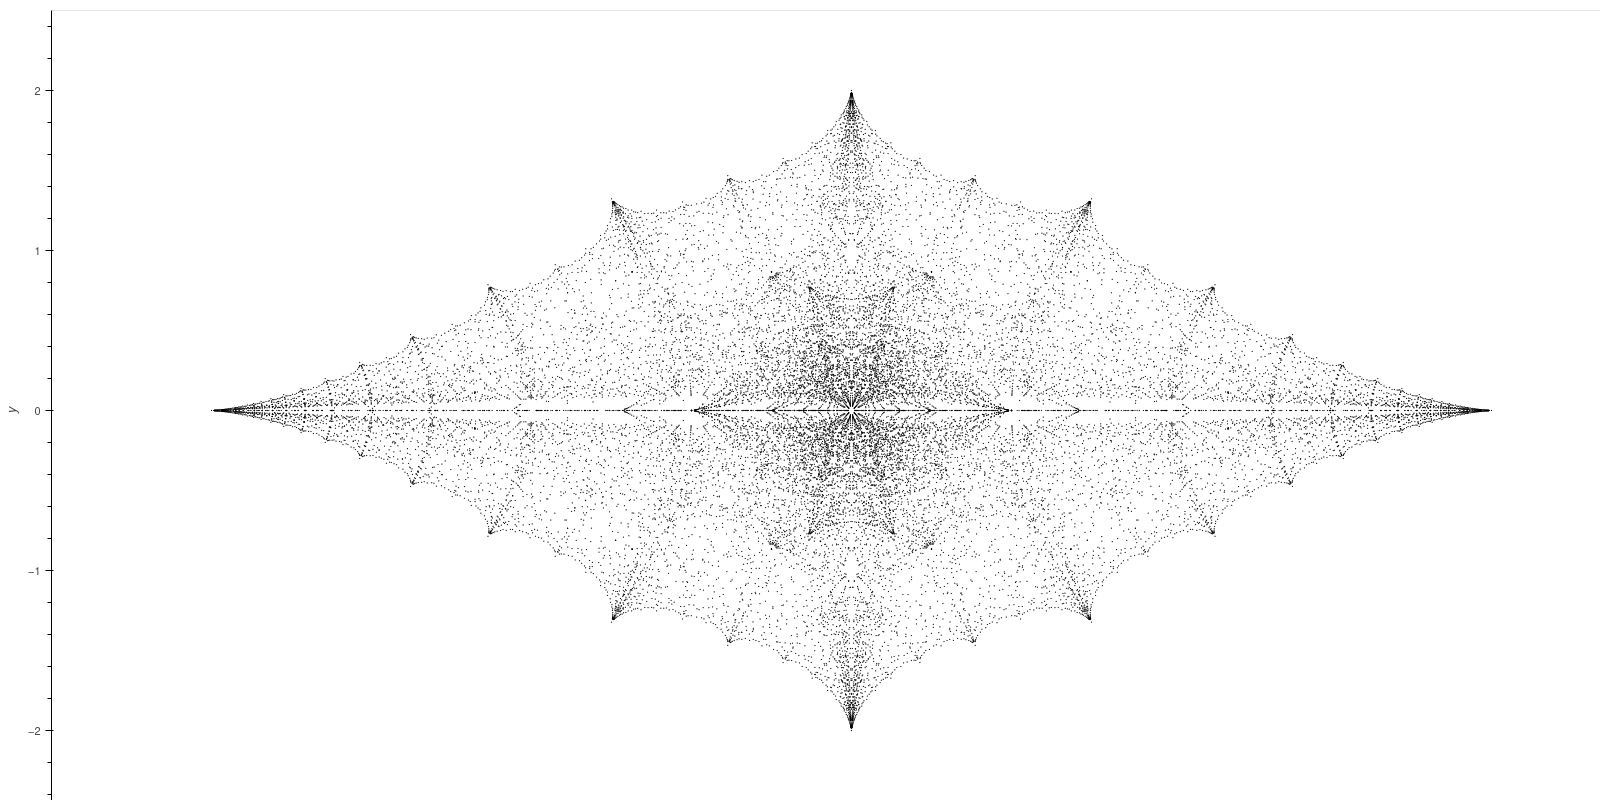
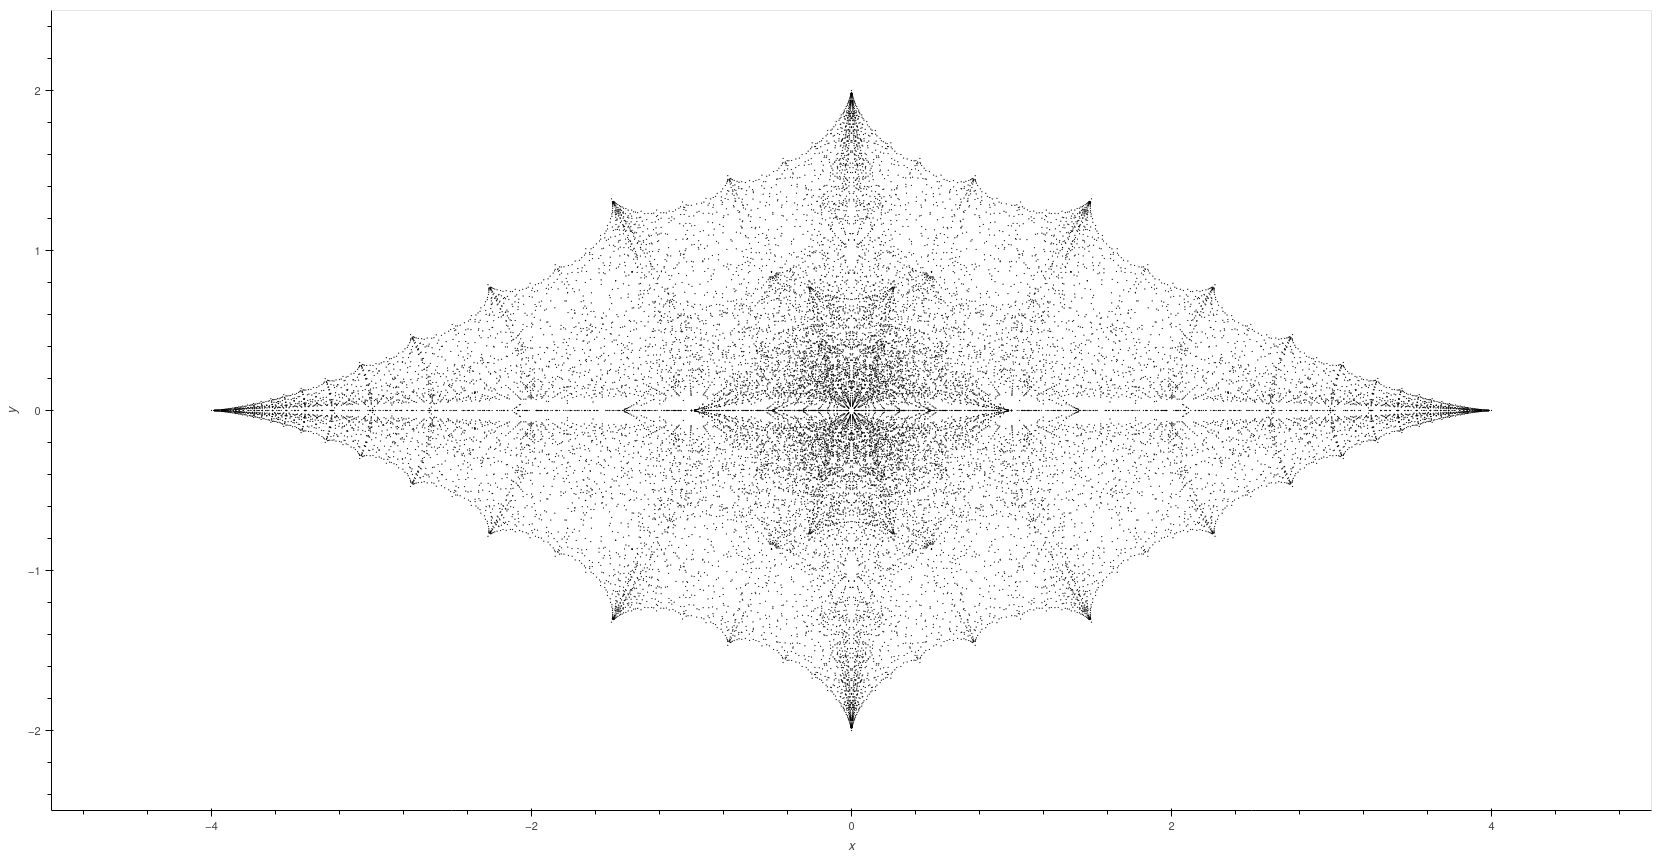
Fix examples to use frame_width not width and same for height

Changed region(s): [[0.125, 0.125, 0.9375, 0.9062]]

diff --git a/examples/padic.py b/examples/padic.py
@@ -14,7 +14,7 @@ from fractions import Fraction as Q
 
 def padic_limit_set(G, filename, prime, depth = 15, logwords=4):
     df = G.coloured_limit_set_mc(depth, 10**logwords, 0, lambda z: chistyakov.Υ(0, 0.5*chistyakov.s0(prime), z, 100))
-    scatter = hv.Scatter(df, kdims = ['x'], vdims = ['y','colour']).opts(marker = "dot", size = .1, width=1000, height=1000, data_aspect=1, color='colour', cmap='Set1')\
+    scatter = hv.Scatter(df, kdims = ['x'], vdims = ['y','colour']).opts(marker = "dot", size = .1, frame_width=1000, frame_height=1000, data_aspect=1, color='colour', cmap='Set1')\
         .redim(x=hv.Dimension('x', range=(-2,2)),y=hv.Dimension('y', range=(-2, 2)))
     hv.save(scatter, filename)
 

diff --git a/examples/elementary.py b/examples/elementary.py
@@ -26,7 +26,7 @@ G = IncompleteGroup(1, 1+1j) #<- if you modify this so that the parallelogram ha
 seed = 0
 df = G.coloured_limit_set_fast(num_points, seed=seed)
 scatter = hv.Scatter(df, kdims = ['x'], vdims = ['y','colour'])\
-            .opts(marker = "dot", size = 4,  color = 'colour', width=800, height=800, data_aspect=1, cmap='Set1')\
+            .opts(marker = "dot", size = 4,  color = 'colour', frame_width=800, frame_height=800, data_aspect=1, cmap='Set1')\
               .redim(x=hv.Dimension('x', range=(-8,8)),y=hv.Dimension('y', range=(-8, 8)))
 
 #isometric circles of generators make no sense here since everything has a fixed point at infinity. We plot the four sizes of the fundamental

diff --git a/examples/parabolic_slice_hidef.py b/examples/parabolic_slice_hidef.py
@@ -8,5 +8,5 @@ hv.extension('bokeh')
 # Just compute the parabolic slice and save it to an image file.
 depth = 50
 df = slices.parabolic_exterior_from_farey(depth)
-roots = hv.Scatter(df, kdims=['x'],vdims=['y']).opts(marker = "dot", size = 4, width=1600, height=800, data_aspect=1, color='black').redim(x=hv.Dimension('x', range=(-5,5)),y=hv.Dimension('y', range=(-2.5, 2.5)))
+roots = hv.Scatter(df, kdims=['x'],vdims=['y']).opts(marker = "dot", size = 4, frame_width=1600, frame_height=800, data_aspect=1, color='black').redim(x=hv.Dimension('x', range=(-5,5)),y=hv.Dimension('y', range=(-2.5, 2.5)))
 hv.save(roots, 'parabolic_slice.png', fmt='png')

diff --git a/examples/apollonian_gasket.py b/examples/apollonian_gasket.py
@@ -12,6 +12,6 @@ G = riley.RileyGroup(0, 0, 2j)
 seed = G.fixed_points((0,1))[0]
 df = G.coloured_limit_set_fast(depth*10**logpoints, seed=seed)
 scatter = hv.Scatter(df, kdims = ['x'], vdims = ['y','colour'])\
-            .opts(marker = "dot", size = 0.1,  color = 'colour', width=1600, height=1600, data_aspect=1, cmap='Set1')\
+            .opts(marker = "dot", size = 0.1,  color = 'colour', frame_width=1600, frame_height=1600, data_aspect=1, cmap='Set1')\
               .redim(x=hv.Dimension('x', range=(-4,4)),y=hv.Dimension('y', range=(-4, 4)))
 hv.save(scatter, 'apollonian_gasket.png', fmt='png')

diff --git a/examples/apanasov.py b/examples/apanasov.py
@@ -34,7 +34,7 @@ G = ApanasovGroup()
 seed = G.fixed_points((0,1))[0]
 df = G.coloured_limit_set_fast(num_points, seed=seed)
 scatter = hv.Scatter(df, kdims = ['x'], vdims = ['y','colour'])\
-            .opts(marker = "dot", size = 1,  color = 'colour', width=1000, height=1000, data_aspect=1, cmap='Set1')
+            .opts(marker = "dot", size = 1,  color = 'colour', frame_width=1000, frame_height=1000, data_aspect=1, cmap='Set1')
 
 # Plot the isometric circles of X^\pm 1, Y^\pm1 and X^\pm2, Y^\pm2. These outline the Ford domain of the group
 # so you can see it has four components.

diff --git a/examples/web.py b/examples/web.py
@@ -45,7 +45,7 @@ G = WebGroup()
 seed = G.fixed_points((0,1))[0]
 df = G.coloured_limit_set_fast(num_points, seed=seed)
 scatter = hv.Scatter(df, kdims = ['x'], vdims = ['y','colour'])\
-            .opts(marker = "dot", size = 0.1,  color = 'colour', width=2000, height=2000, data_aspect=1, cmap='Set1')
+            .opts(marker = "dot", size = 0.1,  color = 'colour', frame_width=2000, frame_height=2000, data_aspect=1, cmap='Set1')
 
 # the four circles C_1,...,C_4
 fourdiscs = [hv.Ellipse(centre.real, centre.imag, float(mp.sqrt(2))).opts(color='gray') for centre in [1, 1j, -1, -1j]]

diff --git a/examples/connected_component_bound.py b/examples/connected_component_bound.py
@@ -23,6 +23,6 @@ G = BoundGroup(8)
 seed = G.fixed_points((0,1))[0]
 df = G.coloured_limit_set_fast(num_points, seed=seed)
 scatter = hv.Scatter(df, kdims = ['x'], vdims = ['y','colour'])\
-            .opts(marker = "dot", size = 1,  color = 'colour', width=400, height=1500, data_aspect=1, cmap='Set1')\
+            .opts(marker = "dot", size = 1,  color = 'colour', frame_width=400, frame_height=1500, data_aspect=1, cmap='Set1')\
               .redim(x=hv.Dimension('x', range=(-2,2)),y=hv.Dimension('y', range=(-1, 14)))
 hv.save(scatter, "connected_component_bound.png")

diff --git a/examples/modular_group.py b/examples/modular_group.py
@@ -18,6 +18,6 @@ numpoints = 100
 G = ModularGroup()
 df = G.coloured_isometric_circles_mc(depth,numpoints)
 chart = Circles(df, kdims = ['x'], vdims = ['y','colour','radius'])\
-          .opts(radius='radius', color = 'colour', width=800, height=800, data_aspect=1, cmap='Set1')\
+          .opts(radius='radius', color = 'colour', frame_width=800, frame_height=800, data_aspect=1, cmap='Set1')\
             .redim(x=hv.Dimension('x', range=(-4,4)),y=hv.Dimension('y', range=(-4, 4)))
 hv.save(chart, "modular_group.png")

diff --git a/examples/beads.py b/examples/beads.py
@@ -64,7 +64,7 @@ def write_limit_set(G,filename):
     # compute the limit set
     df = G.coloured_limit_set_fast(num_points, seed=seed)
     scatter = hv.Scatter(df, kdims = ['x'], vdims = ['y','colour'])\
-                .opts(marker = "dot", size = 0.1,  color = 'colour', width=1600, height=1600, data_aspect=1, cmap='Set1')
+                .opts(marker = "dot", size = 0.1,  color = 'colour', frame_width=1600, frame_height=1600, data_aspect=1, cmap='Set1')
 
 
     #isometric circles of generators
